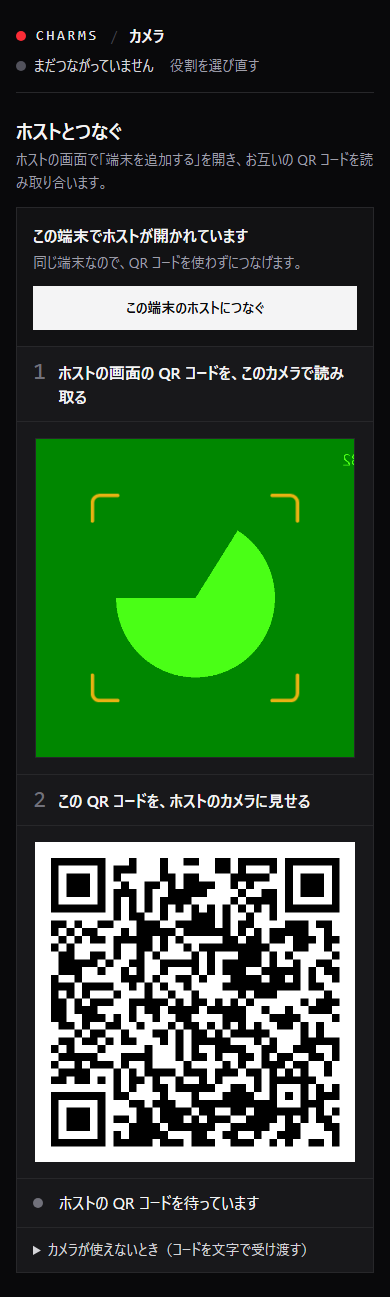
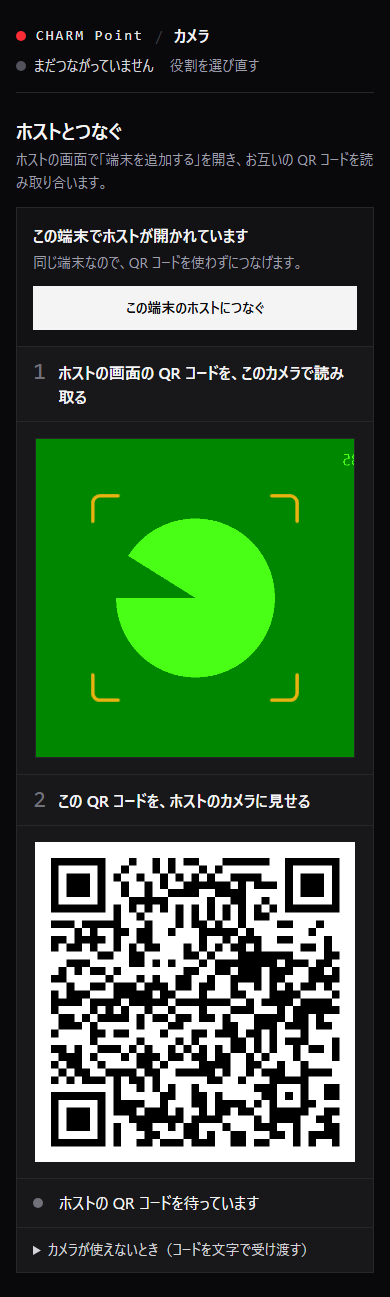
アプリの名前を CHARM Point に変更
画面・ホーム画面のアイコン名・録画ファイル名・エラーの文言を CHARM Point にする。
CHARMS は仕組みの名前として残す。
「LAN だけで動く」という説明は、インターネットがあれば別のネットワークともつながる
ようになるのに合わせて「ブラウザだけで動く」に改める。

diff --git a/src/lib/rtc/base45.ts b/src/lib/rtc/base45.ts
@@ -49,7 +49,7 @@ export function base45Decode(text: string): Uint8Array {
 	for (const char of text) {
 		const digit = LOOKUP.get(char);
 		if (digit === undefined) {
-			throw new PacketDecodeError('CHARMS の QR コードではありません');
+			throw new PacketDecodeError('CHARM Point の QR コードではありません');
 		}
 		digits.push(digit);
 	}
@@ -63,7 +63,7 @@ export function base45Decode(text: string): Uint8Array {
 	for (; i + 2 < digits.length; i += 3) {
 		const value = digits[i] + digits[i + 1] * 45 + digits[i + 2] * 2025;
 		if (value > 0xffff) {
-			throw new PacketDecodeError('CHARMS の QR コードではありません');
+			throw new PacketDecodeError('CHARM Point の QR コードではありません');
 		}
 		out[offset++] = value >> 8;
 		out[offset++] = value & 0xff;
@@ -71,7 +71,7 @@ export function base45Decode(text: string): Uint8Array {
 	if (i < digits.length) {
 		const value = digits[i] + digits[i + 1] * 45;
 		if (value > 0xff) {
-			throw new PacketDecodeError('CHARMS の QR コードではありません');
+			throw new PacketDecodeError('CHARM Point の QR コードではありません');
 		}
 		out[offset++] = value;
 	}

diff --git a/src/routes/+page.svelte b/src/routes/+page.svelte
@@ -39,19 +39,19 @@
 </script>
 
 <svelte:head>
-	<title>CHARMS ExEx</title>
+	<title>CHARM Point</title>
 </svelte:head>
 
 <div class="mx-auto max-w-7xl px-4 py-6 sm:px-6 md:px-10 md:py-10">
 	<AppHeader>
-		<span class="tag hidden sm:inline">LAN だけで動く映像スイッチャー</span>
+		<span class="tag hidden sm:inline">ブラウザだけで動く映像スイッチャー</span>
 	</AppHeader>
 
 	<section class="py-8 md:py-10">
 		<h1 class="text-2xl font-semibold tracking-tight sm:text-3xl">この端末の役割を選んでください</h1>
 		<p class="mt-3 max-w-3xl text-base leading-relaxed text-zinc-300">
 			まず1台を<strong class="font-semibold text-amber-300">ホスト</strong
-			>にします。ほかの端末は役割を選び、ホストと QR コードを見せ合うとつながります。インターネットは使いません。
+			>にします。ほかの端末は役割を選び、ホストと QR コードを見せ合うとつながります。インターネットのない場所でも使えます。
 		</p>
 	</section>
 

diff --git a/src/app.html b/src/app.html
@@ -4,7 +4,7 @@
 		<meta charset="utf-8" />
 		<meta name="viewport" content="width=device-width, initial-scale=1, viewport-fit=cover" />
 		<meta name="theme-color" content="#09090b" />
-		<meta name="description" content="校内 LAN だけで動く、映像の切り替えシステム" />
+		<meta name="description" content="ブラウザだけで動く、映像の切り替えシステム。インターネットのない LAN でも使えます" />
 		<link rel="manifest" href="%sveltekit.assets%/manifest.webmanifest" />
 		<link rel="icon" href="%sveltekit.assets%/icons/icon.svg" type="image/svg+xml" />
 		<link rel="apple-touch-icon" href="%sveltekit.assets%/icons/icon-192.png" />

diff --git a/src/lib/charms/caption.test.ts b/src/lib/charms/caption.test.ts
@@ -44,7 +44,7 @@ describe('録画の表示用の整形', () => {
 	it('ファイル名に端末の名前と日時が入り、使えない文字は置き換える', () => {
 		const at = new Date(2026, 10, 16, 9, 5, 7);
 		expect(recordingFileName('体育館 カメラ/1', 'mp4', at)).toBe('体育館_カメラ_1_2026-11-16_09-05-07.mp4');
-		expect(recordingFileName('???', 'webm', at)).toBe('CHARMS_2026-11-16_09-05-07.webm');
+		expect(recordingFileName('???', 'webm', at)).toBe('CHARMPoint_2026-11-16_09-05-07.webm');
 	});
 
 	it('録画時間とデータ量を読みやすい形にする', () => {

diff --git a/src/lib/charms/recorder.ts b/src/lib/charms/recorder.ts
@@ -27,7 +27,7 @@ export function pickRecordingFormat(): { mimeType: string; extension: string } |
 
 /** ファイル名に使えない文字を取り除く */
 function safeFileName(name: string): string {
-	return name.replace(/[\\/:*?"<>|\s]+/g, '_').replace(/^_+|_+$/g, '') || 'CHARMS';
+	return name.replace(/[\\/:*?"<>|\s]+/g, '_').replace(/^_+|_+$/g, '') || 'CHARMPoint';
 }
 
 /** 録画ファイルの名前を作る（例: カメラ1_2026-11-16_14-30-05.mp4） */

diff --git a/src/components/AppHeader.svelte b/src/components/AppHeader.svelte
@@ -33,7 +33,7 @@
 			aria-label="役割の選択に戻る"
 		>
 			<span class="size-2.5 rounded-full bg-red-500"></span>
-			<span class="font-mono text-sm tracking-[0.2em]">CHARMS</span>
+			<span class="font-mono text-sm tracking-[0.15em]">CHARM Point</span>
 		</a>
 		{#if role}
 			<span class="text-zinc-700" aria-hidden="true">/</span>

diff --git a/src/routes/monitor/+page.svelte b/src/routes/monitor/+page.svelte
@@ -112,7 +112,7 @@
 </script>
 
 <svelte:head>
-	<title>モニター — CHARMS</title>
+	<title>モニター — CHARM Point</title>
 </svelte:head>
 
 <NodeShell {session} {role} bare hold={session.lost && !reconnecting}>

diff --git a/src/routes/host/+page.svelte b/src/routes/host/+page.svelte
@@ -98,7 +98,7 @@
 </script>
 
 <svelte:head>
-	<title>ホスト — CHARMS</title>
+	<title>ホスト — CHARM Point</title>
 </svelte:head>
 
 <div class="mx-auto max-w-7xl px-4 py-6 sm:px-6 md:px-10 md:py-8">

diff --git a/src/routes/admin/+page.svelte b/src/routes/admin/+page.svelte
@@ -201,7 +201,7 @@
 </script>
 
 <svelte:head>
-	<title>テロップ — CHARMS</title>
+	<title>テロップ — CHARM Point</title>
 </svelte:head>
 
 <svelte:window onkeydown={onKeydown} />

diff --git a/src/routes/controller/+page.svelte b/src/routes/controller/+page.svelte
@@ -10,7 +10,7 @@
 </script>
 
 <svelte:head>
-	<title>スイッチャー — CHARMS</title>
+	<title>スイッチャー — CHARM Point</title>
 </svelte:head>
 
 <NodeShell {session} {role}>

diff --git a/src/routes/camera/+page.svelte b/src/routes/camera/+page.svelte
@@ -188,7 +188,7 @@
 </script>
 
 <svelte:head>
-	<title>カメラ — CHARMS</title>
+	<title>カメラ — CHARM Point</title>
 </svelte:head>
 
 <NodeShell {session} {role}>
